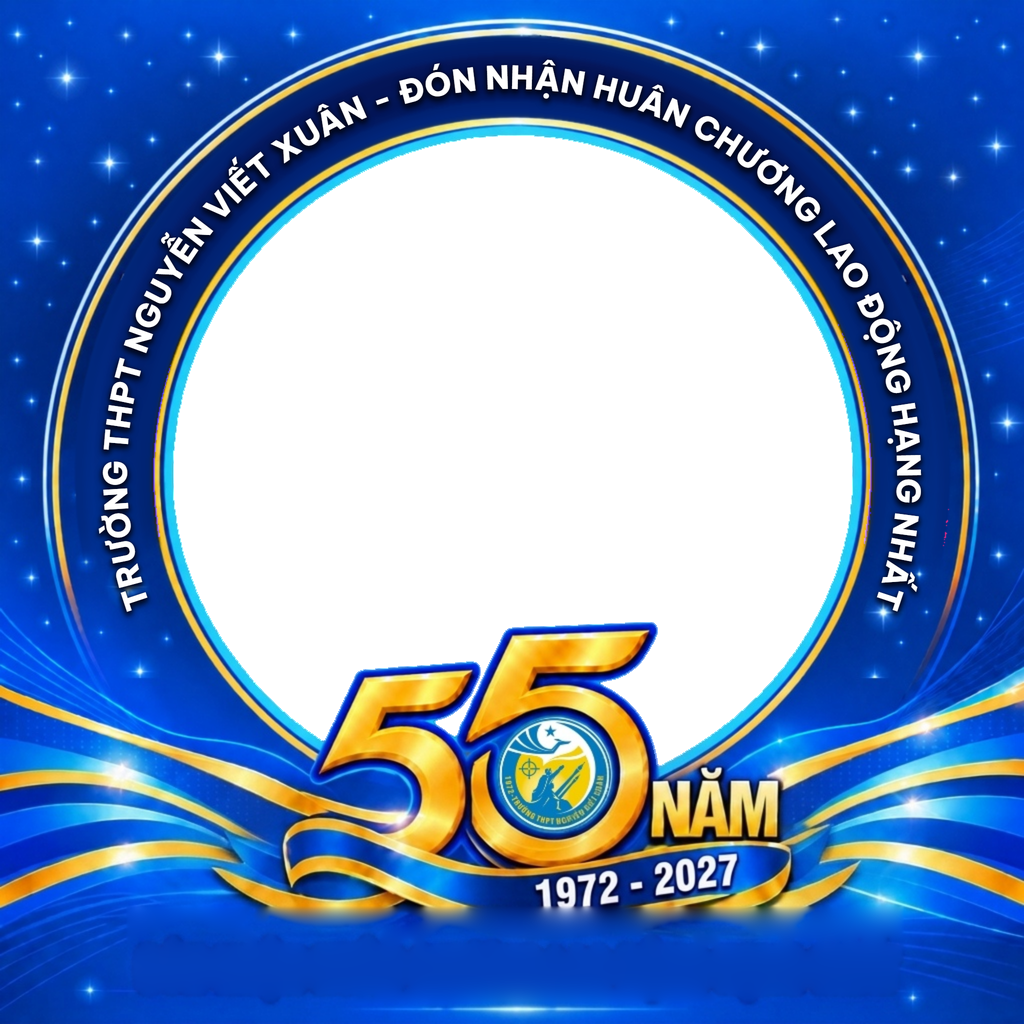
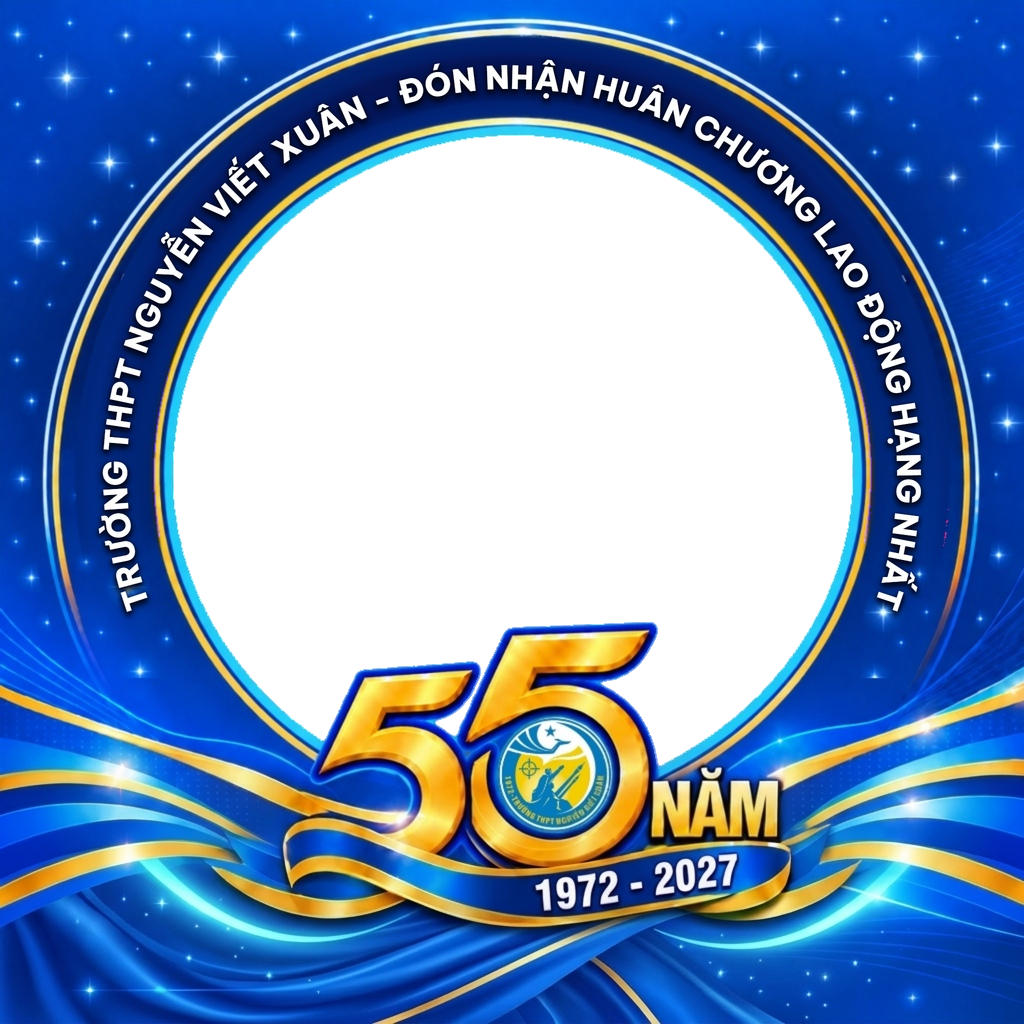
feat: polish bottom silk waves and golden ribbons (v13)

diff --git a/index.html b/index.html
@@ -12,7 +12,7 @@
   <link rel="preconnect" href="https://fonts.googleapis.com" />
   <link rel="preconnect" href="https://fonts.gstatic.com" crossorigin />
   <link href="https://fonts.googleapis.com/css2?family=Be+Vietnam+Pro:wght@400;500;600;700;800&display=swap" rel="stylesheet" />
-  <link rel="stylesheet" href="./src/styles.css?v=12" />
+  <link rel="stylesheet" href="./src/styles.css?v=13" />
 </head>
 <body>
   <main id="appShell" class="app-shell" data-view-mode="desktop">
@@ -273,6 +273,6 @@
     </div>
   </main>
 
-  <script type="module" src="./src/app.js?v=12"></script>
+  <script type="module" src="./src/app.js?v=13"></script>
 </body>
 </html>

diff --git a/src/app.js b/src/app.js
@@ -7,7 +7,7 @@ import {
   detectDefaultViewMode,
   computePinchZoom,
   shouldUseModalImageSave,
-} from './compositor.js?v=12';
+} from './compositor.js?v=13';
 
 const appShell = document.getElementById('appShell');
 const modeDesktopBtn = document.getElementById('modeDesktopBtn');
@@ -234,7 +234,7 @@ function initFrame() {
   img.onerror = () => {
     setStatus('Không thể tải khung ảnh mẫu. Vui lòng tải lại trang.', 'error');
   };
-  img.src = './assets/frame.png?v=12';
+  img.src = './assets/frame.png?v=13';
 }
 
 uploadBtn.addEventListener('click', () => photoInput.click());
